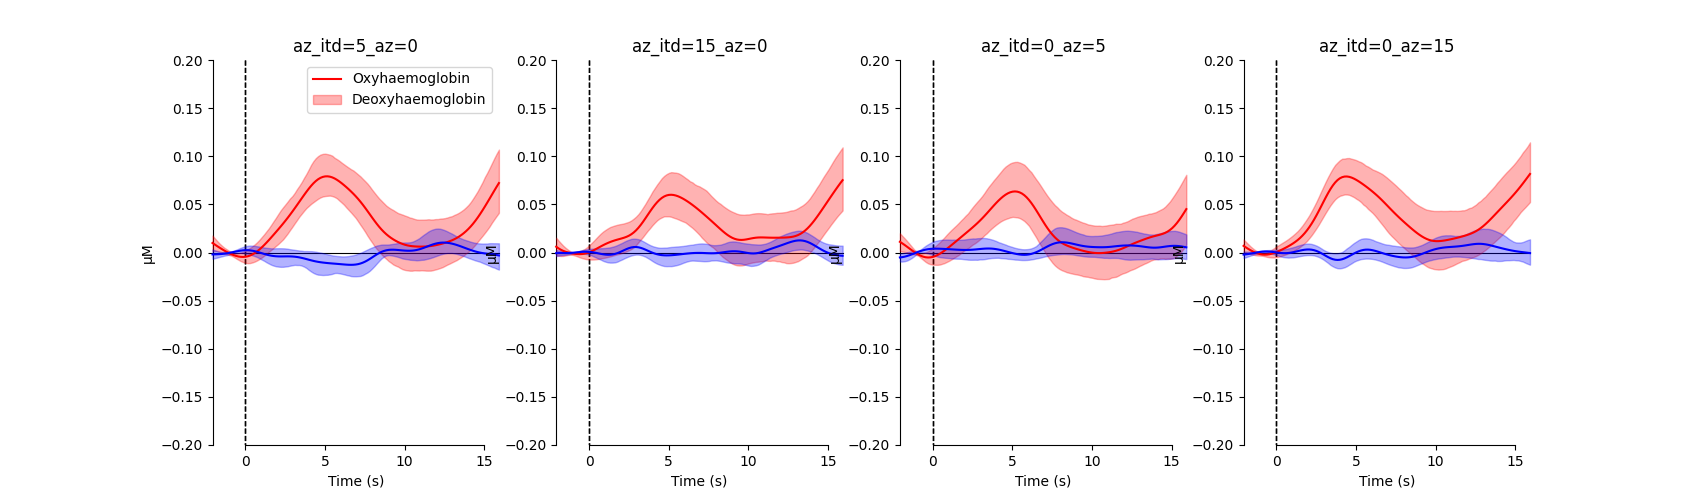
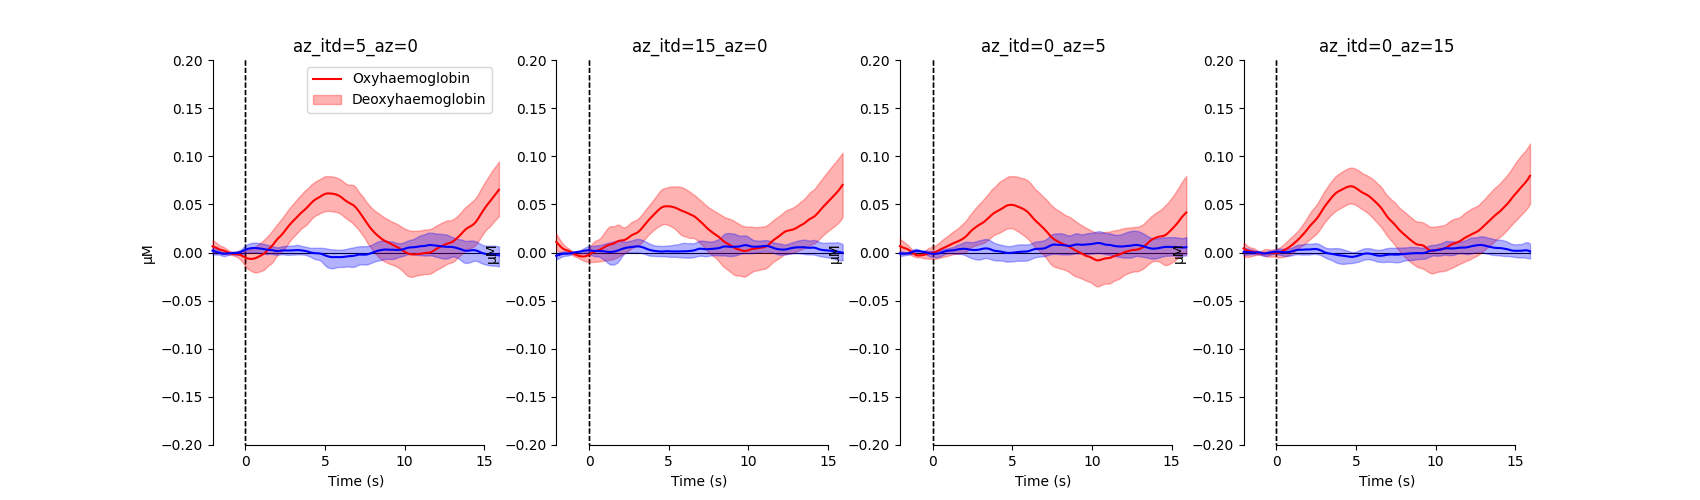
topoplot of block averages!

Changed region(s): [[0.53, 0.3, 0.9041, 0.57], [0.1247, 0.3, 0.4988, 0.57], [0.2806, 0.36, 0.3118, 0.39]]

diff --git a/ANALYSIS SCRIPTS/fnirs_analysis_mild-master.py b/ANALYSIS SCRIPTS/fnirs_analysis_mild-master.py
@@ -8,42 +8,27 @@ Created on Wed Oct  9 19:47:20 2024
 import numpy as np
 import mne
 import math
-# matplotlib.use('TkAgg')
+import matplotlib
 from matplotlib import pyplot as plt
 import os
 import pandas as pd
 from collections import defaultdict
 
-# mne.set_config('MNE_BROWSER_BACKEND', 'qt')
+mne.set_config('MNE_BROWSER_BACKEND', 'qt')
 #from nirx_movement import mark_aux_movement_bad
 from mne_nirs.experimental_design import make_first_level_design_matrix
 from mne_nirs.statistics import run_glm, statsmodels_to_results
 from mne_nirs.channels import (get_long_channels,
                                get_short_channels)
-#import pandas as pd
 from nilearn.plotting import plot_design_matrix
 from run_preproc_NIRS import preprocess_NIRX
 from mne_nirs.io.snirf import read_snirf_aux_data
 from sklearn.preprocessing import StandardScaler, MinMaxScaler
 from mne_nirs.channels import picks_pair_to_idx
 from mne_nirs.visualisation import plot_glm_group_topo, plot_glm_surface_projection
-
-# Import StatsModels
-import statsmodels.formula.api as smf
-#from scipy import signal
-from scipy import stats
-
-
-# Ben preprocessing specific imports
-from mne.preprocessing.nirs import optical_density, beer_lambert_law, temporal_derivative_distribution_repair, scalp_coupling_index
-from itertools import compress
-from mne_nirs.signal_enhancement import short_channel_regression
-from mne_modified_beer_lambert_law import mne_modified_beer_lambert_law
-from mne.io import read_raw_nirx
-from mpl_toolkits.mplot3d import Axes3D
-
-
 from plot_nirs import plot_nirs_evoked_error
+
+from scipy import signal
 # ---------------------------------------------------------------
 # -----------------          Data Parameters            ---------
 # ---------------------------------------------------------------
@@ -167,7 +152,7 @@ curr_subject_ID = ['mild_master_1',
 'mild_master_31',
 'mild_master_32',
 'mild_master_33',
-'mild_master_34'] # ,'mild_master_36','mild_master_37','mild_master_38','mild_master_39','mild_master_40'
+'mild_master_34'] #,'mild_master_36','mild_master_37','mild_master_38','mild_master_39','mild_master_40'
 
 curr_folder_indices = [index for index, element in enumerate(subject_ID) if np.isin(element,curr_subject_ID)]
 curr_fnirs_data_folders = [all_fnirs_data_folders[i] for i in curr_folder_indices]
@@ -340,7 +325,7 @@ for ii, subject_num in enumerate(range(n_subjects)):
                                            events_modification=False, reject=True,
                                            short_regression=this_sub_short_regression, events_from_snirf=False,
                                            drop_short=False, negative_enhancement=False,
-                                           snr_thres=1.5, sci_thres=0.6, filter_type='iir', filter_limits=[0.01,0.3])
+                                           snr_thres=2, sci_thres=0.8, filter_type='iir', filter_limits=[0.01,0.2])
 
 
     if subject != "mild_master_5":
@@ -358,7 +343,7 @@ for ii, subject_num in enumerate(range(n_subjects)):
     # ---------------------------------------------------------------
     # -------------               Epoching                  ---------
     # ---------------------------------------------------------------
-    reject_criteria = None #dict(hbo=20e-6)#5e-6
+    reject_criteria = dict(hbo=5e-6)#5e-6
     #flat_criteria = dict(hbo=0.05e-6)
     
 
@@ -740,7 +725,7 @@ plt.close(fig)
 
 
 # ---------------------------------------------------------------
-# -----------------     Topomap of Group Block Averages ---------
+# -----------------     Grand Average Group Block Averages ---------
 # ---------------------------------------------------------------
 conditions = ['az_itd=5_az=0','az_itd=15_az=0','az_itd=0_az=5','az_itd=0_az=15']
 n_conditions = len(conditions)
@@ -765,7 +750,97 @@ axes[0].legend(["Oxyhaemoglobin", "Deoxyhaemoglobin"])
 plt.savefig(mild_master_root + "/CASUAL FIGURES/grand_average_block_averages.png")
 plt.close(fig)
 
+# ---------------------------------------------------------------
+# -----------------     Topomap of Group Block Averages ---------
+# ---------------------------------------------------------------
+conditions = ['az_itd=5_az=0','az_itd=15_az=0','az_itd=0_az=5','az_itd=0_az=15']
+from mne.preprocessing.nirs import source_detector_distances, _channel_frequencies, \
+    _check_channels_ordered
+from mne.channels.layout import find_layout
+from copy import deepcopy
 
+# need a list of channel locations
+layout = find_layout(raw_haemo_filt.info)
+layout = deepcopy(layout)
+layout.pos[:, :2] -= layout.pos[:, :2].min(0)
+layout.pos[:, :2] /= layout.pos[:, :2].max(0)
+positions = layout.pos[:, :2] * 0.9
+
+# set up subplots
+fig = plt.figure(figsize=(5, 4), dpi=200)
+
+width, height = 0.05, 0.05
+lims = dict(hbo=[-0.2, 0.2], hbr=[-0.2, 0.2])
+# for each channel
+
+unique_positions = np.unique(positions)
+unique_markers = np.zeros(np.shape(unique_positions))
+for ii in range(len(layout.pos)):
+
+    this_channel_name = layout.names[ii]
+    print(this_channel_name)
+    pos = positions[ii, :]
+
+
+
+    # plot --- [lowerCorner_x, lowerCorner_y, width, height]
+    ax = fig.add_axes([pos[0]+width/2, pos[1], width, height])
+    this_cond_evoked = mne.combine_evoked(all_evokeds['az_itd=0_az=15'],'equal')
+
+    this_color = "w"
+    if "hbo" in this_channel_name:
+        this_color = "r"
+    elif "hbr" in this_channel_name:
+        this_color = "b"
+    mne.viz.plot_compare_evokeds(
+        {'az_itd=0_az=15': this_cond_evoked},
+        combine=None,
+        picks=this_channel_name,
+        axes=ax,
+        show=False,
+        colors=[this_color],
+        legend=False,
+        show_sensors=False,
+        ylim=lims,
+        ci=0.95,
+    )
+
+    ax.xaxis.set_major_locator(plt.MaxNLocator(2))
+    ax.yaxis.set_major_locator(plt.MaxNLocator(2))
+    ax.spines['top'].set_visible(False)
+    ax.spines['right'].set_visible(False)
+    ax.tick_params(labelsize=0.1, length=2, width=0.5, labelcolor='w')
+    ax.patch.set_alpha(0)
+    ax.set_title(f'{layout.names[ii][:-4]}', fontsize=3, pad=0)
+    ax.set_xlabel("")
+    ax.set_ylabel("")
+    ax.set_facecolor("none")
+
+# add an empty plot with labels
+ax = fig.add_axes([0.5, 0.075, 1.5*width, 1.5*height])
+mne.viz.plot_compare_evokeds(
+            {'az_itd=0_az=15': this_cond_evoked},
+            combine=None,
+            picks=this_channel_name,
+            axes=ax,
+            show=False,
+            show_sensors=False,
+            colors=["w"],
+            legend=False,
+            ylim=lims,
+            ci=0.95,
+        )
+ax.set_ylim(bottom=lims['hbo'][0], top=lims['hbo'][1])
+ax.xaxis.set_major_locator(plt.MaxNLocator(2))
+ax.yaxis.set_major_locator(plt.MaxNLocator(2))
+ax.set_xlabel('Time (s)', fontsize=4)
+ax.set_ylabel('DeltaHb (uM)', fontsize=4)
+ax.spines['top'].set_visible(False)
+ax.spines['right'].set_visible(False)
+ax.tick_params(labelsize=4)
+
+plt.savefig(mild_master_root + "/CASUAL FIGURES/topomap_block_averages.png")
+plt.close(fig)
 
 # ---------------------------------------------------------------
 # -----------------     Scatterplot of Mean HbO         ---------

diff --git a/ANALYSIS SCRIPTS/run_preproc_NIRS.py b/ANALYSIS SCRIPTS/run_preproc_NIRS.py
@@ -161,7 +161,7 @@ def preprocess_NIRX(data, data_snirf=0, event_dict=0,
             raw_od_corrected = corrected_tddr.filter(l_freq=filter_limits[0], h_freq=None,
                                                       l_trans_bandwidth=filter_limits[0],
                                                       method='iir', phase='zero',
-                                                      iir_params={'order': 3, 'ftype': 'butter', 'output': 'sos'})
+                                                      iir_params={'order': 1, 'ftype': 'butter', 'output': 'sos'})
 
         elif filter_type == 'fir':
             raw_od_corrected = corrected_tddr.filter(l_freq=filter_limits[0], h_freq=None,
@@ -194,7 +194,7 @@ def preprocess_NIRX(data, data_snirf=0, event_dict=0,
         if filter_type == 'iir':
             raw_OD_filt = raw_OD_sc.filter(l_freq=None, h_freq=filter_limits[1],
                                                  h_trans_bandwidth=filter_limits[1] / 2, method='iir', phase='zero',
-                                                 iir_params={'order': 3, 'ftype': 'butter', 'output': 'sos'})
+                                                 iir_params={'order': 1, 'ftype': 'butter', 'output': 'sos'})
 
         elif filter_type == 'fir':
             raw_OD_filt = raw_OD_sc.filter(l_freq=None, h_freq=filter_limits[1],
